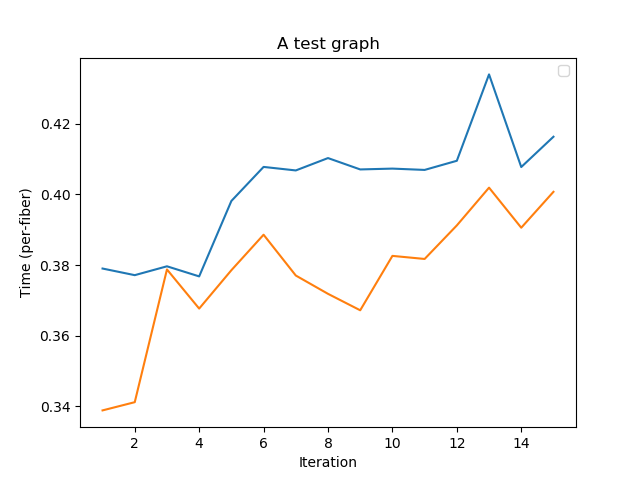
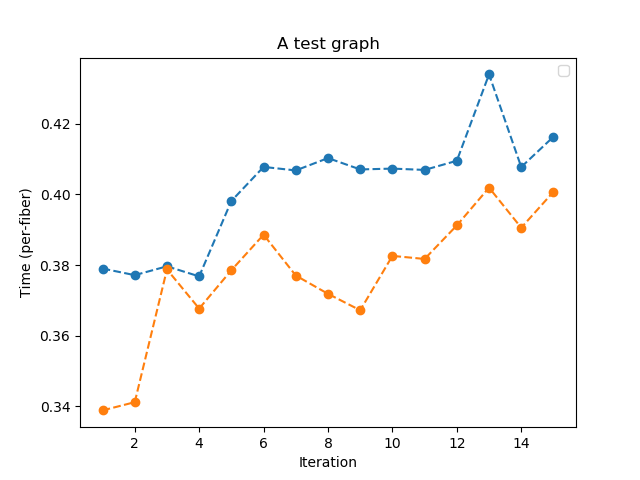
modified plots

diff --git a/perf/perf.py b/perf/perf.py
@@ -48,8 +48,8 @@ else:
     plt.xlabel("Iteration")
     plt.ylabel("Time (per-fiber)")
     plt.title("A test graph")
-    plt.plot(range(1, len(l1)+1),[pt for pt in l1])
-    plt.plot(range(1, len(l2)+1),[pt2 for pt2 in l2])
+    plt.plot(range(1, len(l1)+1),[pt for pt in l1], marker='o', linestyle='--')
+    plt.plot(range(1, len(l2)+1),[pt2 for pt2 in l2], marker='o', linestyle='--')
     plt.legend()
     plt.show()
     plt.ylabel("Time (per-fiber)")
